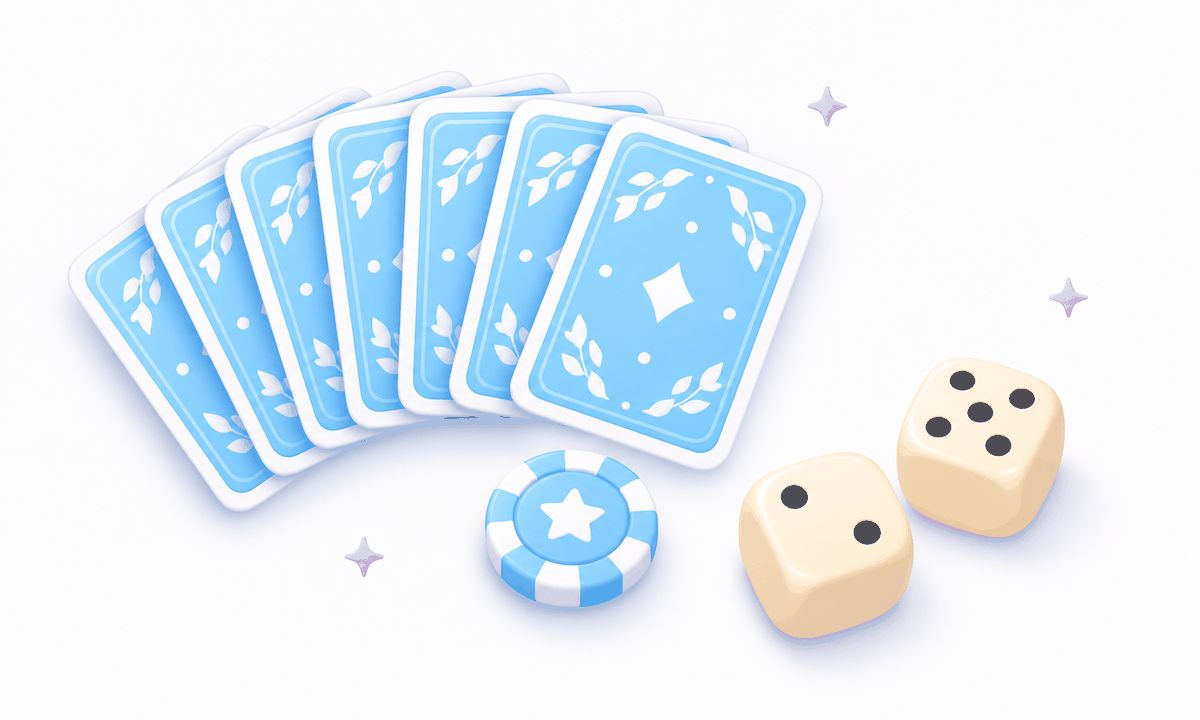
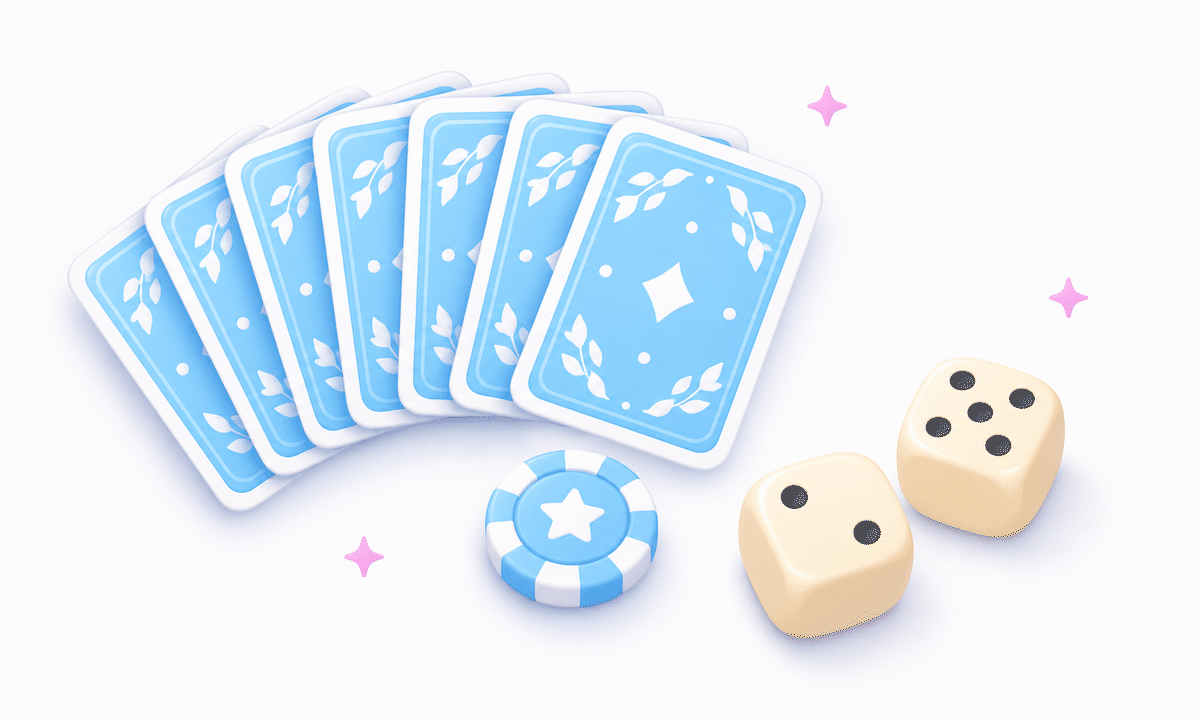
fix(web): lineup copy and delegation wording follow the host agent
- friendlyLineupLabel/lineupHint: 「诺里」 in the lineup names the host agent
  (turn-driven seat), 「搭档/当前agent」 names the configured game_agent; the
  substitution uses placeholders so a host name equal to the game_agent name
  does not collide
- delegatedTurnStatus: the delegate is the host agent (it drives the notice
  turn), not the plugin persona

diff --git a/web/shared/mode.js b/web/shared/mode.js
@@ -178,16 +178,22 @@ export function normalizeLineup(v) {
 
 /** 目录 label → 用户可读文案：目录当前可能写「当前agent/陪练」，
  * 前端统一收敛为「搭档/陪练」，不把技术词带进大厅（更不出现 AI 字样）。
- * agentName 可得时把「搭档」换成公开名（动态，不写死人设）。 */
+ * 身份口径：阵容里的「诺里」是 turn 驱动的宿主主 agent → 渲染宿主名；
+ * 「搭档」是 game_agent → 渲染 agentName（配置名，默认 nori → 诺里）。 */
 export function friendlyLineupLabel(label, fallback, agentName) {
   const raw = String(label == null ? "" : label).trim() || String(fallback == null ? "" : fallback).trim();
   if (!raw) return "";
-  const name = String(agentName == null ? "" : agentName).trim();
+  const name = String(agentName == null ? "" : agentName).trim() || "搭档";
+  const host = getHostAgentName();
+  // 占位符先落成不冲突的记号，避免「宿主名恰好是诺里」时被第二次替换：
+  // 「诺里」= turn 驱动的宿主主 agent；「搭档/当前agent」= game_agent。
   return raw
-    .replace(/当前\s*agent/gi, "搭档")
+    .replace(/当前\s*agent/gi, "\u0000")
+    .replace(/搭档/g, "\u0000")
+    .replaceAll(PERSONA_DEFAULT, "\u0001")
     .replace(/\s*\+\s*/g, " + ")
-    .replace(/搭档/g, name || "搭档")
-    .replaceAll(PERSONA_DEFAULT, personaName)
+    .replaceAll("\u0000", name)
+    .replaceAll("\u0001", host)
     .trim();
 }
 
@@ -218,9 +224,15 @@ export function lineupPlanOf(lineup) {
 export function lineupHint(lineup, agentName) {
   const key = normalizeLineup(lineup) || "nori_agent";
   const raw = LINEUP_HINTS[key];
-  // 「搭档」是进阶对手的占位称呼：有公开名时换成名字，缺席保持中性称呼。
-  const name = String(agentName == null ? "" : agentName).trim();
-  return raw.replace(/搭档/g, name || "搭档").replaceAll(PERSONA_DEFAULT, personaName);
+  // 「搭档」是 game_agent 的占位称呼：有配置名时换成名字，缺席保持中性称呼。
+  const name = String(agentName == null ? "" : agentName).trim() || "搭档";
+  const host = getHostAgentName();
+  // 同 friendlyLineupLabel：先占位再替换，宿主名与 game_agent 名相同也不会串。
+  return raw
+    .replace(/搭档/g, "\u0000")
+    .replaceAll(PERSONA_DEFAULT, "\u0001")
+    .replaceAll("\u0000", name)
+    .replaceAll("\u0001", host);
 }
 
 /** 当前对局的阵容（mode_options 首选；旧后端按座位构成无法可靠推断，返回空串）。 */
@@ -573,9 +585,11 @@ export function seatKindLabel(seat, practice) {
 export function delegatedTurnStatus({ mine, delegated, myTurn, act } = {}) {
   if (!mine || !delegated) return null;
   const word = String(act || "") === "代打" ? "代打" : "代下";
+  // Delegation is done by the host agent (it drives the notice turn).
+  const who = getHostAgentName();
   return myTurn
-    ? { kind: "delegated", text: `${personaName}${word}中…` }
-    : { kind: "wait", text: `${word}已开启：轮到你时${personaName}接手` };
+    ? { kind: "delegated", text: `${who}${word}中…` }
+    : { kind: "wait", text: `${word}已开启：轮到你时${who}接手` };
 }
 
 /* ---------------- 载荷构造 ---------------- */

diff --git a/web/tests/doudizhu.test.js b/web/tests/doudizhu.test.js
@@ -71,6 +71,7 @@ import {
   seatDriverOf,
   seatIdentity,
   seatIdentityLabel,
+  setHostAgentName,
 } from "../shared/mode.js";
 import { DIR_MODULES, cardCoverCandidates, loadGameModule, moduleUrls } from "../games/registry.js";
 
@@ -370,6 +371,28 @@ test("阵容：目录选项（服务端 label 优先）+ 内置四档回落", ()
   assert.deepEqual(fallback.map((x) => x.value), ["nori_agent", "nori_bot", "agent_bot", "bot_bot"]);
   assert.ok(fallback.every((x) => typeof x.label === "string" && x.label.length > 0));
   assert.ok(!/AI|artificial|bot/i.test(lineupHint("nori_agent")));
+});
+
+test("身份口径：阵容里的「诺里」= 宿主主 agent，「搭档」= game_agent 配置名", () => {
+  // 默认配置（宿主名未下发）：两者都渲染「诺里」，保持旧文案。
+  assert.deepEqual(
+    lineupsOf({ lineups: [{ value: "nori_agent", label: "诺里 + 当前agent" }] }, "蕾依").map((x) => x.label),
+    ["诺里 + 蕾依"]
+  );
+  assert.equal(lineupHint("nori_agent", "蕾依"), "诺里和蕾依与你同桌；地主叫分后确定");
+
+  // 宿主名下发后：阵容里的「诺里」换成宿主名，game_agent 仍是配置名。
+  setHostAgentName("汐祈（Seki）");
+  try {
+    assert.deepEqual(
+      lineupsOf({ lineups: [{ value: "nori_agent", label: "诺里 + 当前agent" }] }, "诺里").map((x) => x.label),
+      ["汐祈（Seki） + 诺里"]
+    );
+    assert.equal(lineupHint("nori_bot", "诺里"), "汐祈（Seki）和陪练与你同桌；地主叫分后确定");
+    assert.equal(lineupHint("agent_bot", "诺里"), "诺里和陪练与你同桌，汐祈（Seki）在聊天里支招");
+  } finally {
+    setHostAgentName("");
+  }
 });
 
 test("开局载荷：四阵容写入 seat_drivers/nori_seat/nori_role + options.hands", () => {
